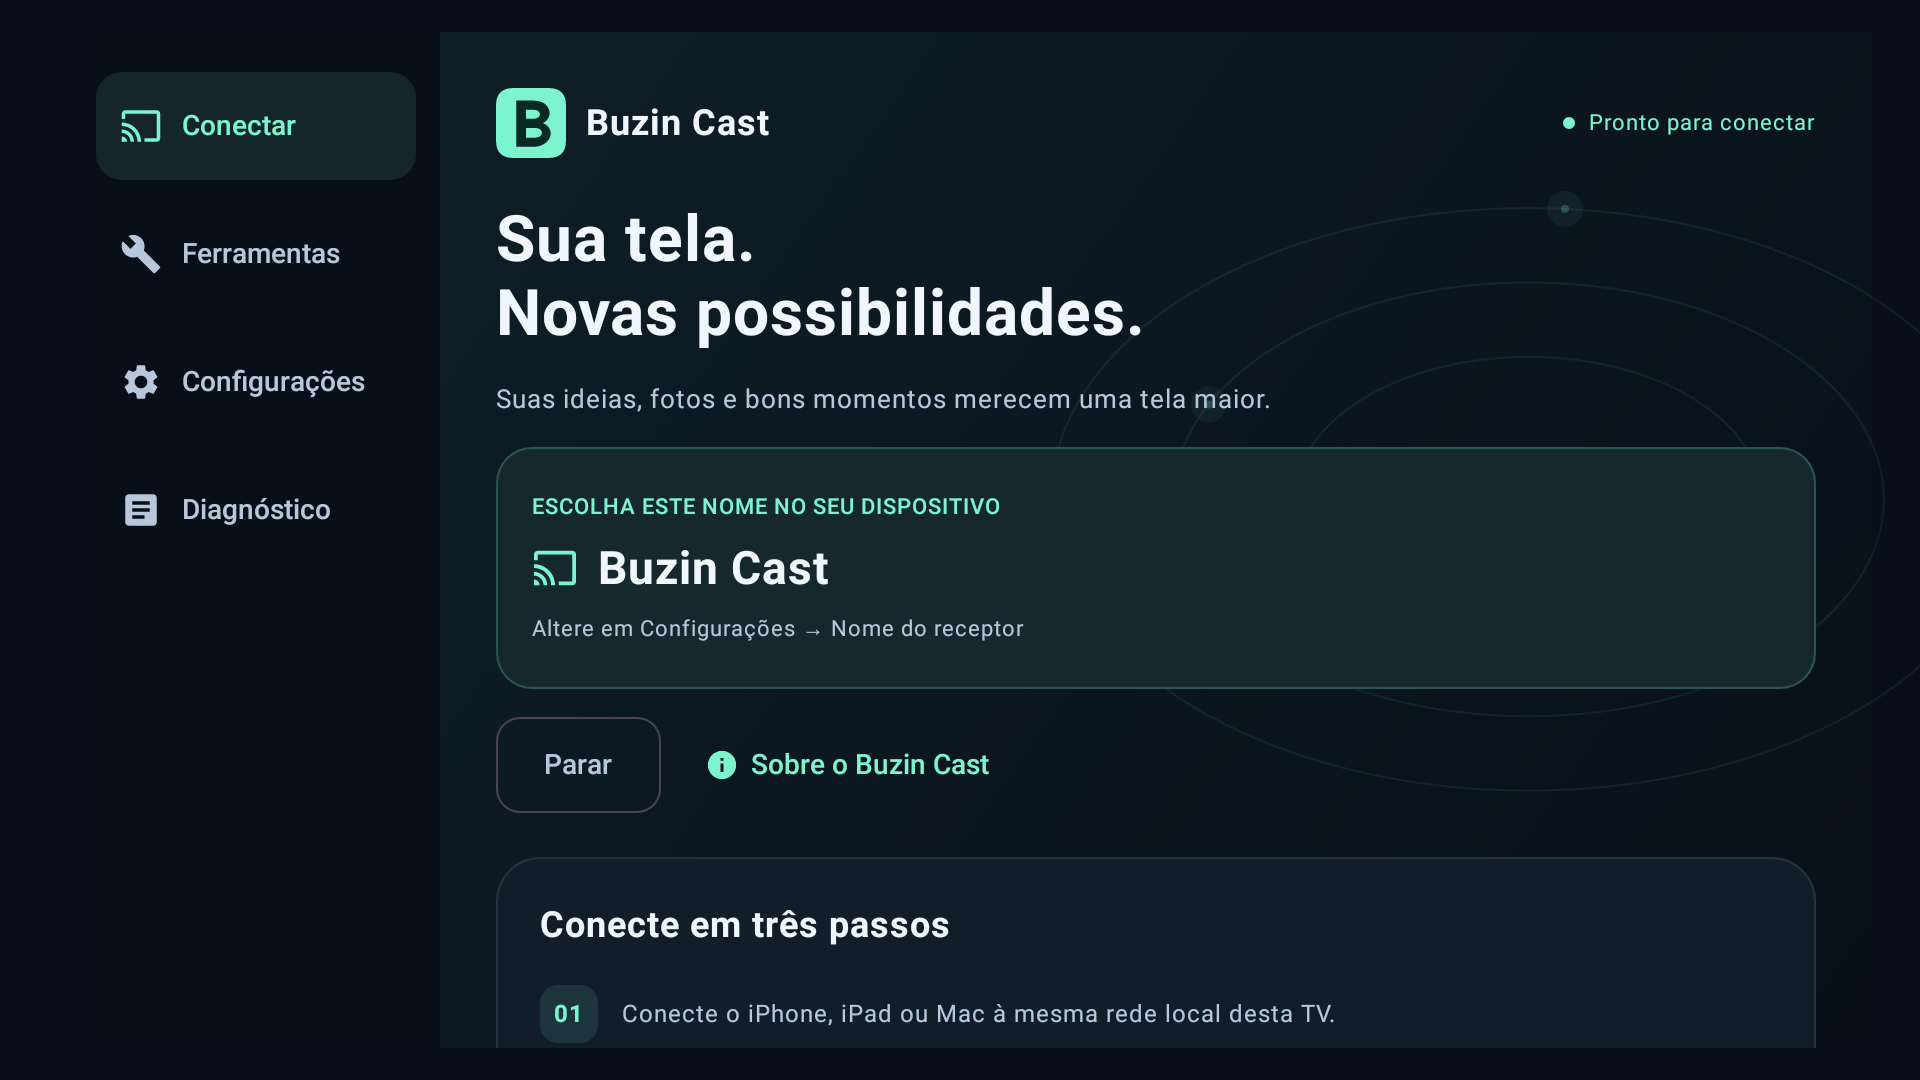
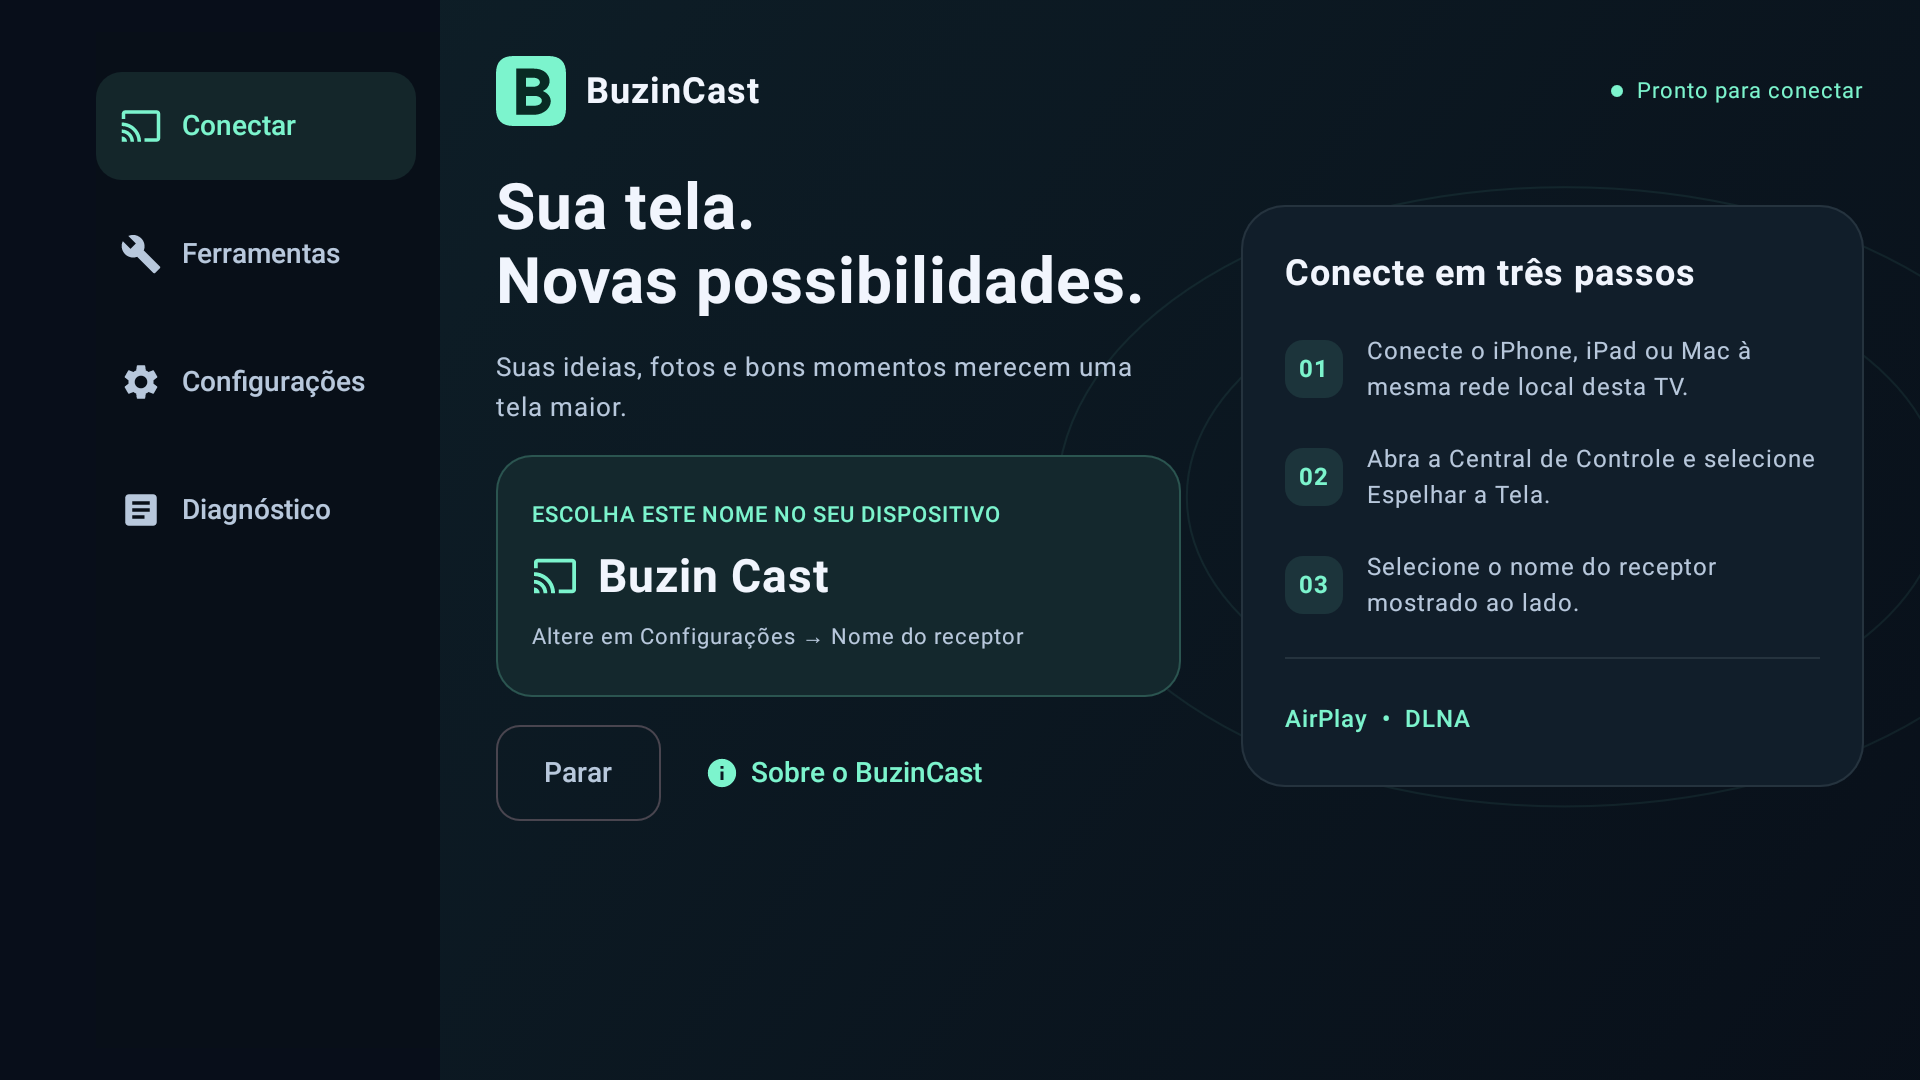
feat: compact BuzinCast artwork for Fire TV [skip ci]

diff --git a/docs/WORK_CHECKPOINT.md b/docs/WORK_CHECKPOINT.md
@@ -1,4 +1,55 @@
-# Retomada — 5 de novembro de 2026
+# Retomada — 6 de novembro de 2026
+
+## Tarefa futura registrada por Henrique — Alemanha e Áustria
+
+- [ ] Preparar edições específicas para esses dois países sem funções de
+  gravação, cópia, download ou armazenamento de vídeo/áudio. Considerar as
+  edições principal e compatível Fire OS; não basta ocultar os botões.
+  Revisar novamente a política e validar os binários antes da distribuição.
+  Henrique pediu expressamente guardar essa tarefa para outro momento;
+  não implementá-la nesta atualização de identidade visual.
+- Base: [FAQ oficial da Amazon, seção General](https://developer.amazon.com/docs/fire-tv/faq-general.html).
+  A regra consultada em 6 de novembro de 2026 exclui Alemanha e Áustria de
+  apps que permitem essas operações no Fire TV ou armazenamento conectado.
+  Na atualização 0.6.2, manter os dois países fora da distribuição.
+
+## Tarefa futura registrada por Henrique — DRM Amazon e gravações
+
+- [ ] Avaliar em conjunto a ideia de gravações e a integração de DRM da
+  Amazon Appstore. O console avisa que o APK atual usa um SDK sem a
+  integração de DRM; a preferência de DRM deve ficar desativada enquanto o
+  app não implementar esse suporte no código.
+- Não marcar DRM apenas para ocultar o aviso. Antes de qualquer alteração,
+  definir quais conteúdos serão protegidos, os requisitos de licença e o
+  impacto nas edições Fire OS principal/compatível e nos países restritos.
+
+## Atualização em andamento — 0.6.2
+
+- A Amazon confirmou 0.6.1 e 0.6.1-compat **Live**, com as três validações
+  aprovadas; o status foi conferido no console em 6 de novembro.
+- Henrique aprovou a mesma marca azul/verde do catálogo em todos os
+  ícones, preenchidos até as bordas, sem molduras ou cantos transparentes.
+  O padrão e as referências estão em `docs/BRAND.md`.
+- Também autorizou incluir nesta publicação o nome BuzinCast e o novo
+  Sobre, com site da empresa, fontes/licenças e espaçamento antes do ®.
+  Confirmou que o registro da marca Buzin Solutions já foi concedido.
+- Fontes candidatas atuais: `edf7484` mais o ajuste visual pendente de
+  confirmação no launcher. Principal código 26, compatível 25.
+  Rascunho Amazon: `amzn1.devportal.apprelease.854798fe28fb4208ae96ae44098c65e7`.
+  Descrições PT-BR/EN-US, gratuito, 92/5 modelos Fire TV, sem Vega,
+  tablets ou automotivos. Apenas Alemanha e Áustria excluídas da seleção.
+- CI: [42253171413](https://github.com/HenriqueBuzin/buzin-cast/actions/runs/42253171413)
+  concluiu com build e as 12 APIs de emulador aprovados. O retoque final da
+  arte é somente visual; será recompilado e conferido no quarto antes do envio.
+- Usar somente o Fire Stick do quarto (`192.168.0.121:5555`) para esta
+  atualização. As outras duas TVs podem estar em uso e não devem ser
+  alteradas. Nenhum backup novo. O ícone novo apareceu após limpar apenas
+  o cache da Appstore e reiniciar, preservando seus dados. O launcher do
+  Fire OS 6 adiciona faixas a APKs instalados diretamente; o banner da
+  loja deve permanecer horizontal e preenchido por completo.
+- Ainda não submetido: concluir instalação/conferência dos APKs finais,
+  capturas do novo Sobre, substituição dos dois arquivos e galeria final,
+  verificar CI e então enviar à análise.
 
 ## Candidatas corrigidas 0.6.1 — estado atual
 
